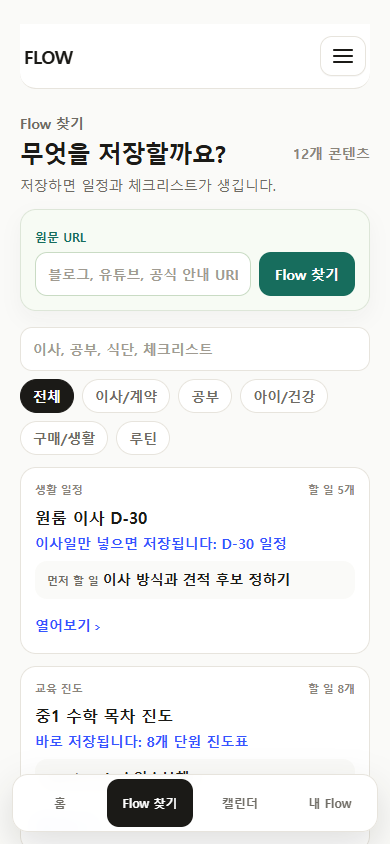
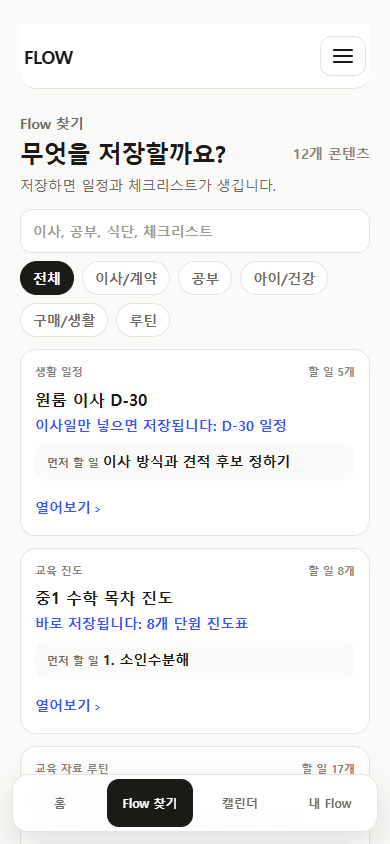
Unify user surface guardrail capture rules

diff --git a/lib/flow/display-title.test.ts b/lib/flow/display-title.test.ts
@@ -1,4 +1,6 @@
 import assert from 'node:assert/strict';
+import fs from 'node:fs';
+import path from 'node:path';
 import test from 'node:test';
 import { toContentDisplayTitle, toUserFacingMapTitle, toUserFacingSourceTitle } from './display-title';
 import { seedBundles } from './seed-flows';
@@ -10,6 +12,7 @@ import {
   collectSourceSlugSignals,
   collectSourceSlugSignalsFromLines,
   countLineOccurrences,
+  createSourceSlugHitRegex,
   findDuplicatePrototypeExportEntryHits,
   findFirstTaskRepetitionHits,
   findPrototypeEnglishMonthTimeHits,
@@ -25,6 +28,7 @@ import {
   normalizeGuardrailLines,
   scanPrototypeRouteGuardrails,
   scanUserSurfaceGuardrails,
+  USER_SURFACE_GUARDRAIL_RUNTIME,
 } from './user-surface-guardrails';
 
 test('toContentDisplayTitle removes trailing Flow from content titles only', () => {
@@ -132,6 +136,31 @@ test('scanUserSurfaceGuardrails catches source slugs followed by punctuation', (
     { signal: 'KKday', line: 'KKday, travel prep' },
     { signal: 'AJD', line: 'AJD. move checklist' },
   ]);
+});
+
+test('source slug regex source is exported as the capture-script runtime rule', () => {
+  assert.ok(USER_SURFACE_GUARDRAIL_RUNTIME.sourceSlugBoundarySource.includes('\\p{Script=Hangul}'));
+  assert.ok(USER_SURFACE_GUARDRAIL_RUNTIME.sourceSlugBoundarySource.includes('D-'));
+  assert.ok(USER_SURFACE_GUARDRAIL_RUNTIME.sourceSlugBoundarySource.includes('(?![\\p{L}\\p{N}_])'));
+
+  const regex = createSourceSlugHitRegex('DeskLab');
+  assert.equal(regex.test('DeskLab· moving schedule'), true);
+  assert.equal(regex.test('DeskLab) moving schedule'), true);
+  assert.equal(regex.test('DeskLab. moving schedule'), true);
+  assert.equal(regex.test('DeskLabsource moving schedule'), false);
+});
+
+test('capture script does not keep stale source slug or GitHub path copies', () => {
+  const script = fs.readFileSync(
+    path.join(process.cwd(), 'scripts', 'content-audit', 'capture-claude-p7-final-review-package.mjs'),
+    'utf8',
+  );
+
+  assert.ok(script.includes('scanUserSurfaceGuardrails'));
+  assert.ok(script.includes('scanPrototypeRouteGuardrails'));
+  assert.ok(script.includes('findFirstTaskRepetitionHits'));
+  assert.equal(script.includes('(?=$|\\s|[가-힣]|D-)'), false);
+  assert.equal(script.includes('blob/${branchName}/flow-mvp'), false);
 });
 
 test('user surface guardrail helpers lock positive and negative display cases', () => {

diff --git a/lib/flow/user-surface-guardrails.ts b/lib/flow/user-surface-guardrails.ts
@@ -100,6 +100,14 @@ const SOURCE_SIGNAL_STOP_WORDS = new Set([
   'WWW',
 ]);
 
+const SOURCE_SLUG_PREFIX_SOURCE = String.raw`(^|[^\p{L}\p{N}_])`;
+const SOURCE_SLUG_BOUNDARY_SOURCE = String.raw`(?=$|\s|\p{Script=Hangul}|D-|\.(?![\p{L}\p{N}_])|[^\p{L}\p{N}_\s.])`;
+
+export const USER_SURFACE_GUARDRAIL_RUNTIME = {
+  sourceSlugPrefixSource: SOURCE_SLUG_PREFIX_SOURCE,
+  sourceSlugBoundarySource: SOURCE_SLUG_BOUNDARY_SOURCE,
+} as const;
+
 export function normalizeGuardrailLine(line: string): string {
   return line.replace(/\s+/g, ' ').trim();
 }
@@ -146,10 +154,7 @@ export function findSourceSlugHits(primaryLines: string[], sourceSlugSignals: st
 
   for (const line of normalizedLines) {
     for (const signal of normalizedSignals) {
-      const regex = new RegExp(
-        `(^|[^\\p{L}\\p{N}_])${escapeRegExp(signal)}(?=$|\\s|\\p{Script=Hangul}|D-|\\.(?![\\p{L}\\p{N}_])|[^\\p{L}\\p{N}_\\s.])`,
-        'iu',
-      );
+      const regex = createSourceSlugHitRegex(signal);
       if (regex.test(line)) {
         hits.push({ signal, line });
       }
@@ -157,6 +162,10 @@ export function findSourceSlugHits(primaryLines: string[], sourceSlugSignals: st
   }
 
   return hits;
+}
+
+export function createSourceSlugHitRegex(signal: string): RegExp {
+  return new RegExp(`${SOURCE_SLUG_PREFIX_SOURCE}${escapeRegExp(signal)}${SOURCE_SLUG_BOUNDARY_SOURCE}`, 'iu');
 }
 
 export function findStructuralDisplayHits(primaryLines: string[]): string[] {

diff --git a/docs/content-audit/2026-07-05-claude-design-p9-final-review-package/review.html b/docs/content-audit/2026-07-05-claude-design-p9-final-review-package/review.html
@@ -30,7 +30,7 @@
   <main>
     <h1>FlowMe P9 Final Review Package</h1>
     <p class="lead">P7/P8 기준선 위에 P9-01~P9-07 guardrail coverage, 접근성 순서, My Flow 구조어, prototype gate, restart milestone grouping, helper unit test 기준을 고정하기 위한 모바일 390px screenshot/evidence 패키지입니다.</p>
-    <p class="meta">UI baseline commit: decd1a8 · Package generated from: decd1a8 · Package commit ref: git commit containing this generated package</p>
+    <p class="meta">UI baseline commit: f668e74 · Package generated from: f668e74 · Package commit ref: git commit containing this generated package</p>
     <section class="summary">
       <div class="stat"><b>26</b><span>screenshots</span></div>
       <div class="stat"><b>0</b><span>normal internal hits</span></div>

diff --git a/docs/content-audit/2026-07-05-claude-design-p9-final-review-package/prompt-ko.md b/docs/content-audit/2026-07-05-claude-design-p9-final-review-package/prompt-ko.md
@@ -25,21 +25,21 @@
 8. 단순 평가로 끝내지 말고, 필요하면 다음 backlog를 Blocking/High/Medium/Low로 작성
 
 주요 링크:
-- P9 review package README: https://github.com/knhbae/flowme2605/blob/codex/flowme-uxui-second-loop/flow-mvp/docs/content-audit/2026-07-05-claude-design-p9-final-review-package/README.md
-- Audit markdown: https://github.com/knhbae/flowme2605/blob/codex/flowme-uxui-second-loop/flow-mvp/docs/content-audit/2026-07-05-claude-design-p9-final-review-package/audit.md
-- Review HTML: https://github.com/knhbae/flowme2605/blob/codex/flowme-uxui-second-loop/flow-mvp/docs/content-audit/2026-07-05-claude-design-p9-final-review-package/review.html
-- Route evidence JSON: https://github.com/knhbae/flowme2605/blob/codex/flowme-uxui-second-loop/flow-mvp/docs/content-audit/2026-07-05-claude-design-p9-final-review-package/route-evidence.json
-- Screenshots folder: https://github.com/knhbae/flowme2605/blob/codex/flowme-uxui-second-loop/flow-mvp/docs/content-audit/2026-07-05-claude-design-p9-final-review-package/screenshots
-- E2E guardrails: https://github.com/knhbae/flowme2605/blob/codex/flowme-uxui-second-loop/flow-mvp/tests/e2e/flow-mvp.spec.ts
-- Workbench source density E2E: https://github.com/knhbae/flowme2605/blob/codex/flowme-uxui-second-loop/flow-mvp/tests/e2e/workbench-source-density.spec.ts
-- Public share CTA/tab-order E2E: https://github.com/knhbae/flowme2605/blob/codex/flowme-uxui-second-loop/flow-mvp/tests/e2e/public-share-cta-order.spec.ts
+- P9 review package README: https://github.com/knhbae/flowme2605/blob/codex/flowme-uxui-second-loop/docs/content-audit/2026-07-05-claude-design-p9-final-review-package/README.md
+- Audit markdown: https://github.com/knhbae/flowme2605/blob/codex/flowme-uxui-second-loop/docs/content-audit/2026-07-05-claude-design-p9-final-review-package/audit.md
+- Review HTML: https://github.com/knhbae/flowme2605/blob/codex/flowme-uxui-second-loop/docs/content-audit/2026-07-05-claude-design-p9-final-review-package/review.html
+- Route evidence JSON: https://github.com/knhbae/flowme2605/blob/codex/flowme-uxui-second-loop/docs/content-audit/2026-07-05-claude-design-p9-final-review-package/route-evidence.json
+- Screenshots folder: https://github.com/knhbae/flowme2605/blob/codex/flowme-uxui-second-loop/docs/content-audit/2026-07-05-claude-design-p9-final-review-package/screenshots
+- E2E guardrails: https://github.com/knhbae/flowme2605/blob/codex/flowme-uxui-second-loop/tests/e2e/flow-mvp.spec.ts
+- Workbench source density E2E: https://github.com/knhbae/flowme2605/blob/codex/flowme-uxui-second-loop/tests/e2e/workbench-source-density.spec.ts
+- Public share CTA/tab-order E2E: https://github.com/knhbae/flowme2605/blob/codex/flowme-uxui-second-loop/tests/e2e/public-share-cta-order.spec.ts
 
 현재 guardrail scan 요약:
 ```json
 {
   "totalScreenshots": 26,
-  "uiBaselineCommit": "decd1a8",
-  "packageGeneratedFromCommit": "decd1a8",
+  "uiBaselineCommit": "f668e74",
+  "packageGeneratedFromCommit": "f668e74",
   "packageCommitRef": "git commit containing this generated package",
   "normalRouteInternalHitCount": 0,
   "normalRouteSourceSlugHitCount": 0,

diff --git a/docs/content-audit/2026-07-05-claude-design-p9-final-review-package/README.md b/docs/content-audit/2026-07-05-claude-design-p9-final-review-package/README.md
@@ -1,9 +1,9 @@
 # FlowMe Claude Design P9 Final Review Package
 
-- Generated: 2026-07-05T14:09:53.261Z
+- Generated: 2026-07-05T21:18:25.567Z
 - Branch: `codex/flowme-uxui-second-loop`
-- UI baseline commit: `decd1a8`
-- Package generated from commit: `decd1a8`
+- UI baseline commit: `f668e74`
+- Package generated from commit: `f668e74`
 - Package commit ref: `git commit containing this generated package`
 - Viewport: 390x844
 
@@ -51,8 +51,8 @@ For P9, it additionally closes P9-01 to P9-07: data-driven guardrail coverage, a
 
 ## GitHub Links
 
-- [Source root](https://github.com/knhbae/flowme2605/blob/codex/flowme-uxui-second-loop/flow-mvp)
-- [E2E guardrails](https://github.com/knhbae/flowme2605/blob/codex/flowme-uxui-second-loop/flow-mvp/tests/e2e/flow-mvp.spec.ts)
-- [Workbench source density E2E](https://github.com/knhbae/flowme2605/blob/codex/flowme-uxui-second-loop/flow-mvp/tests/e2e/workbench-source-density.spec.ts)
-- [Public share CTA/tab-order E2E](https://github.com/knhbae/flowme2605/blob/codex/flowme-uxui-second-loop/flow-mvp/tests/e2e/public-share-cta-order.spec.ts)
-- [Capture script](https://github.com/knhbae/flowme2605/blob/codex/flowme-uxui-second-loop/flow-mvp/scripts/content-audit/capture-claude-p7-final-review-package.mjs)
+- [Source root](https://github.com/knhbae/flowme2605/blob/codex/flowme-uxui-second-loop)
+- [E2E guardrails](https://github.com/knhbae/flowme2605/blob/codex/flowme-uxui-second-loop/tests/e2e/flow-mvp.spec.ts)
+- [Workbench source density E2E](https://github.com/knhbae/flowme2605/blob/codex/flowme-uxui-second-loop/tests/e2e/workbench-source-density.spec.ts)
+- [Public share CTA/tab-order E2E](https://github.com/knhbae/flowme2605/blob/codex/flowme-uxui-second-loop/tests/e2e/public-share-cta-order.spec.ts)
+- [Capture script](https://github.com/knhbae/flowme2605/blob/codex/flowme-uxui-second-loop/scripts/content-audit/capture-claude-p7-final-review-package.mjs)

diff --git a/docs/content-audit/2026-07-05-claude-design-p9-final-review-package/audit.md b/docs/content-audit/2026-07-05-claude-design-p9-final-review-package/audit.md
@@ -29,8 +29,8 @@ P7-06 closes the review loop after P7-01 to P7-05. P8-01 generalizes the same gu
 ```json
 {
   "totalScreenshots": 26,
-  "uiBaselineCommit": "decd1a8",
-  "packageGeneratedFromCommit": "decd1a8",
+  "uiBaselineCommit": "f668e74",
+  "packageGeneratedFromCommit": "f668e74",
   "packageCommitRef": "git commit containing this generated package",
   "normalRouteInternalHitCount": 0,
   "normalRouteSourceSlugHitCount": 0,
@@ -169,8 +169,8 @@ The restart source/export frame and bottom frame must remain distinct:
 
 ## Commit Metadata
 
-- UI baseline commit: `decd1a8`
-- Package generated from commit: `decd1a8`
+- UI baseline commit: `f668e74`
+- Package generated from commit: `f668e74`
 - Package commit ref: `git commit containing this generated package`
 
 ## Residual Risk
